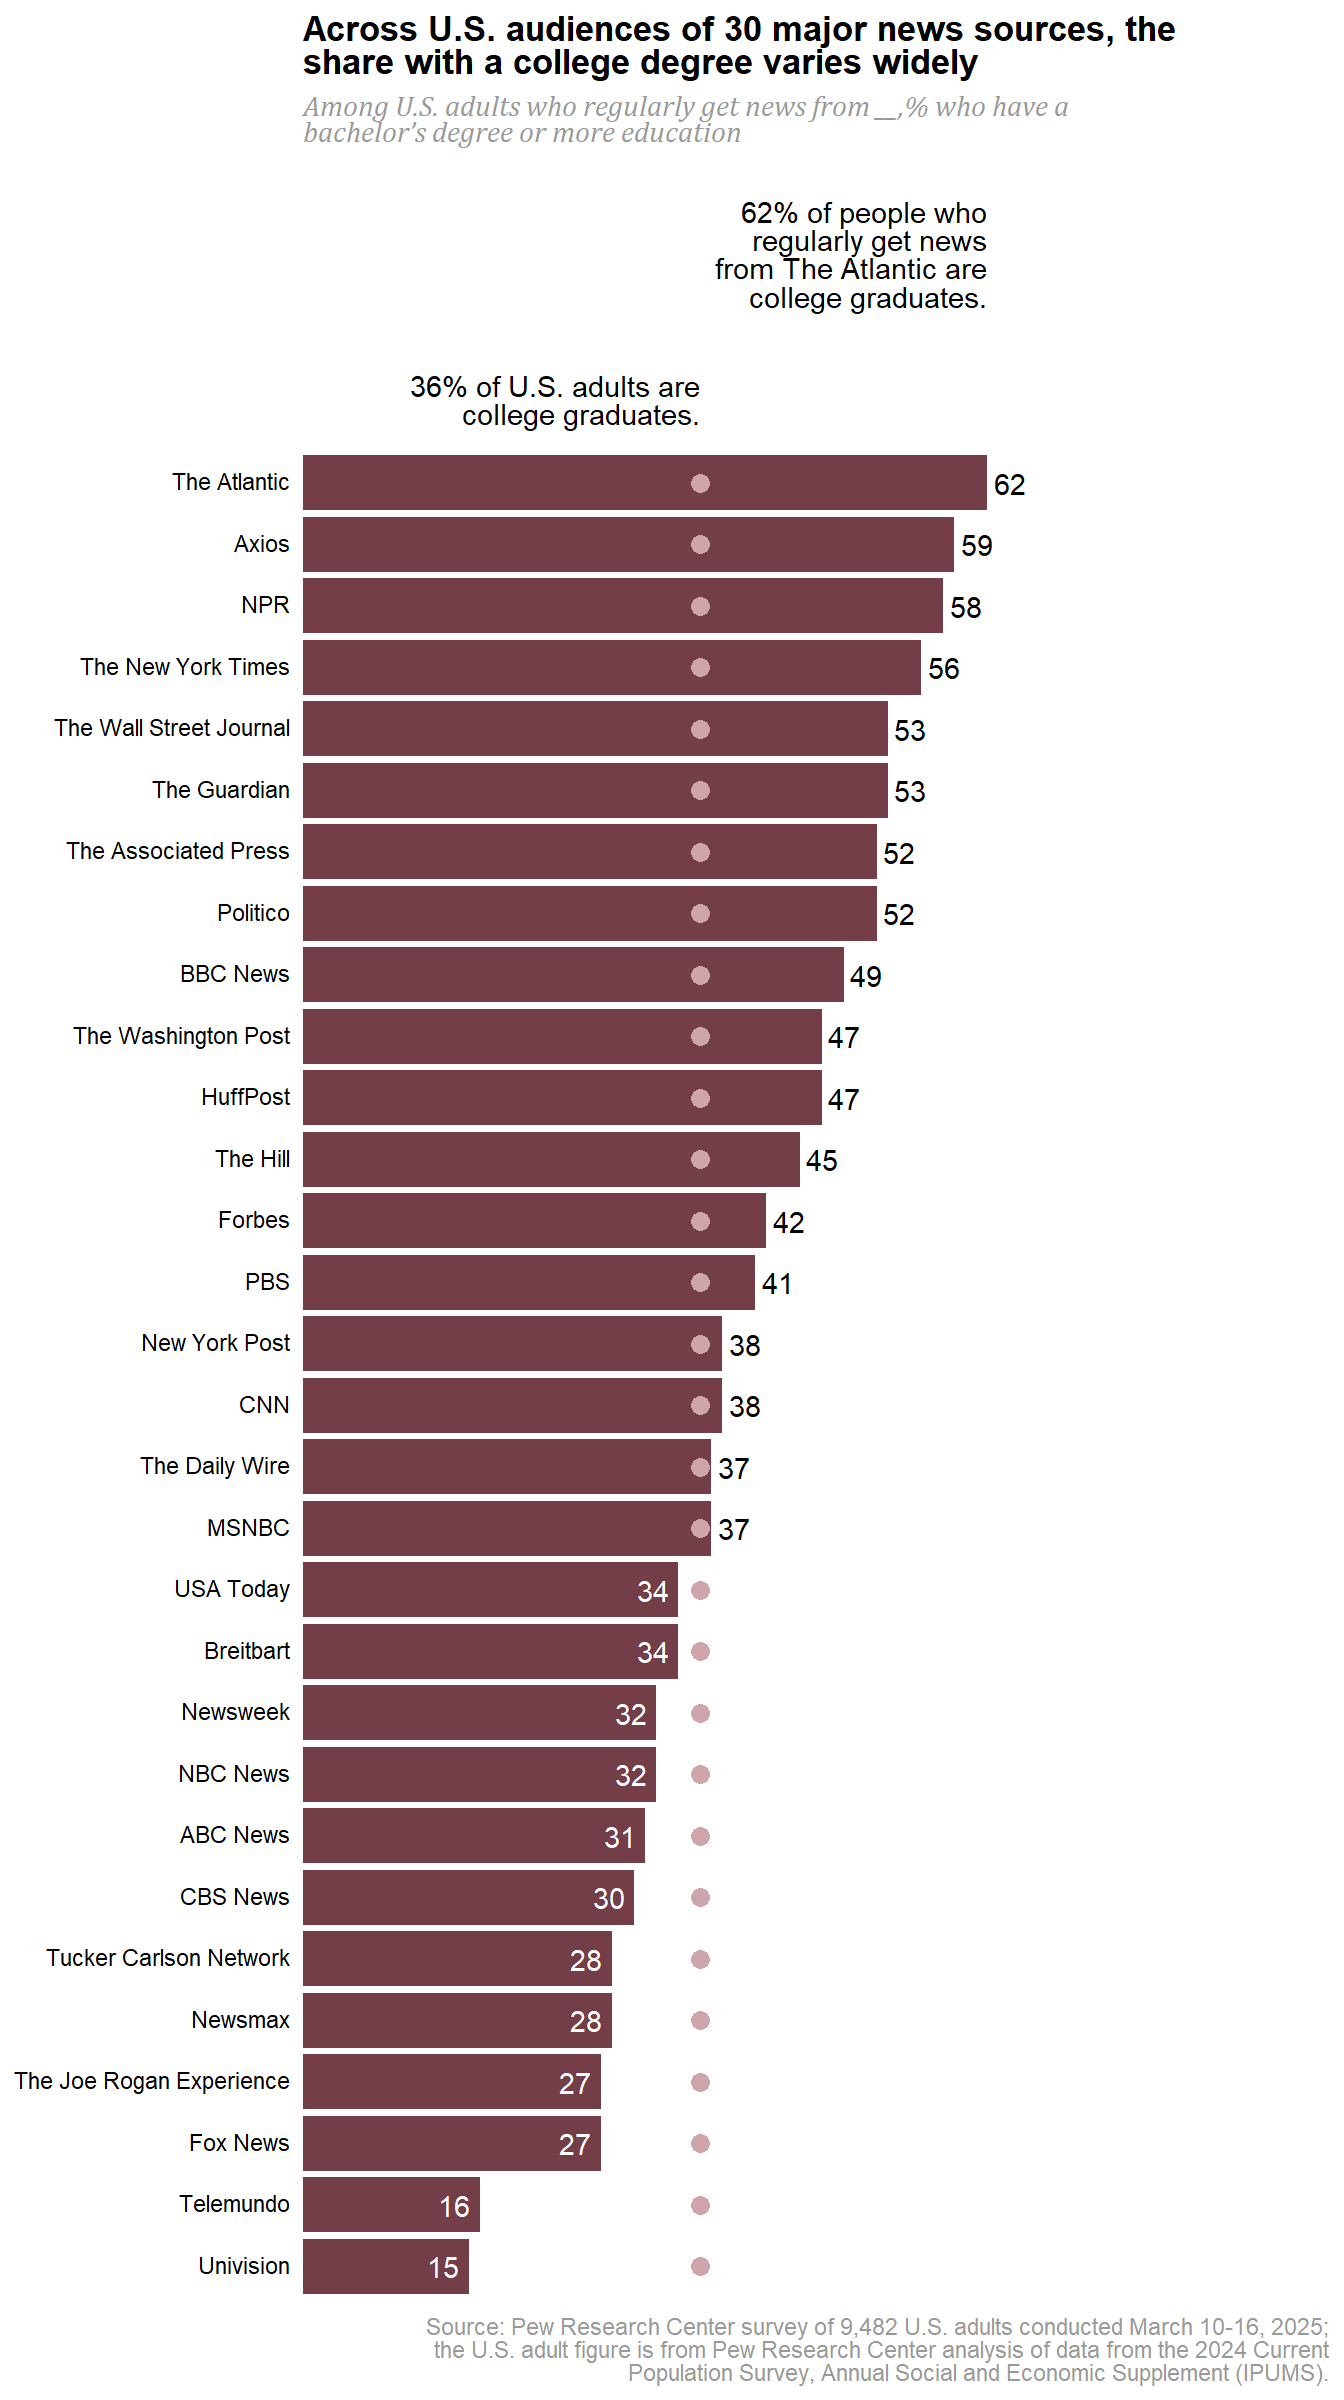
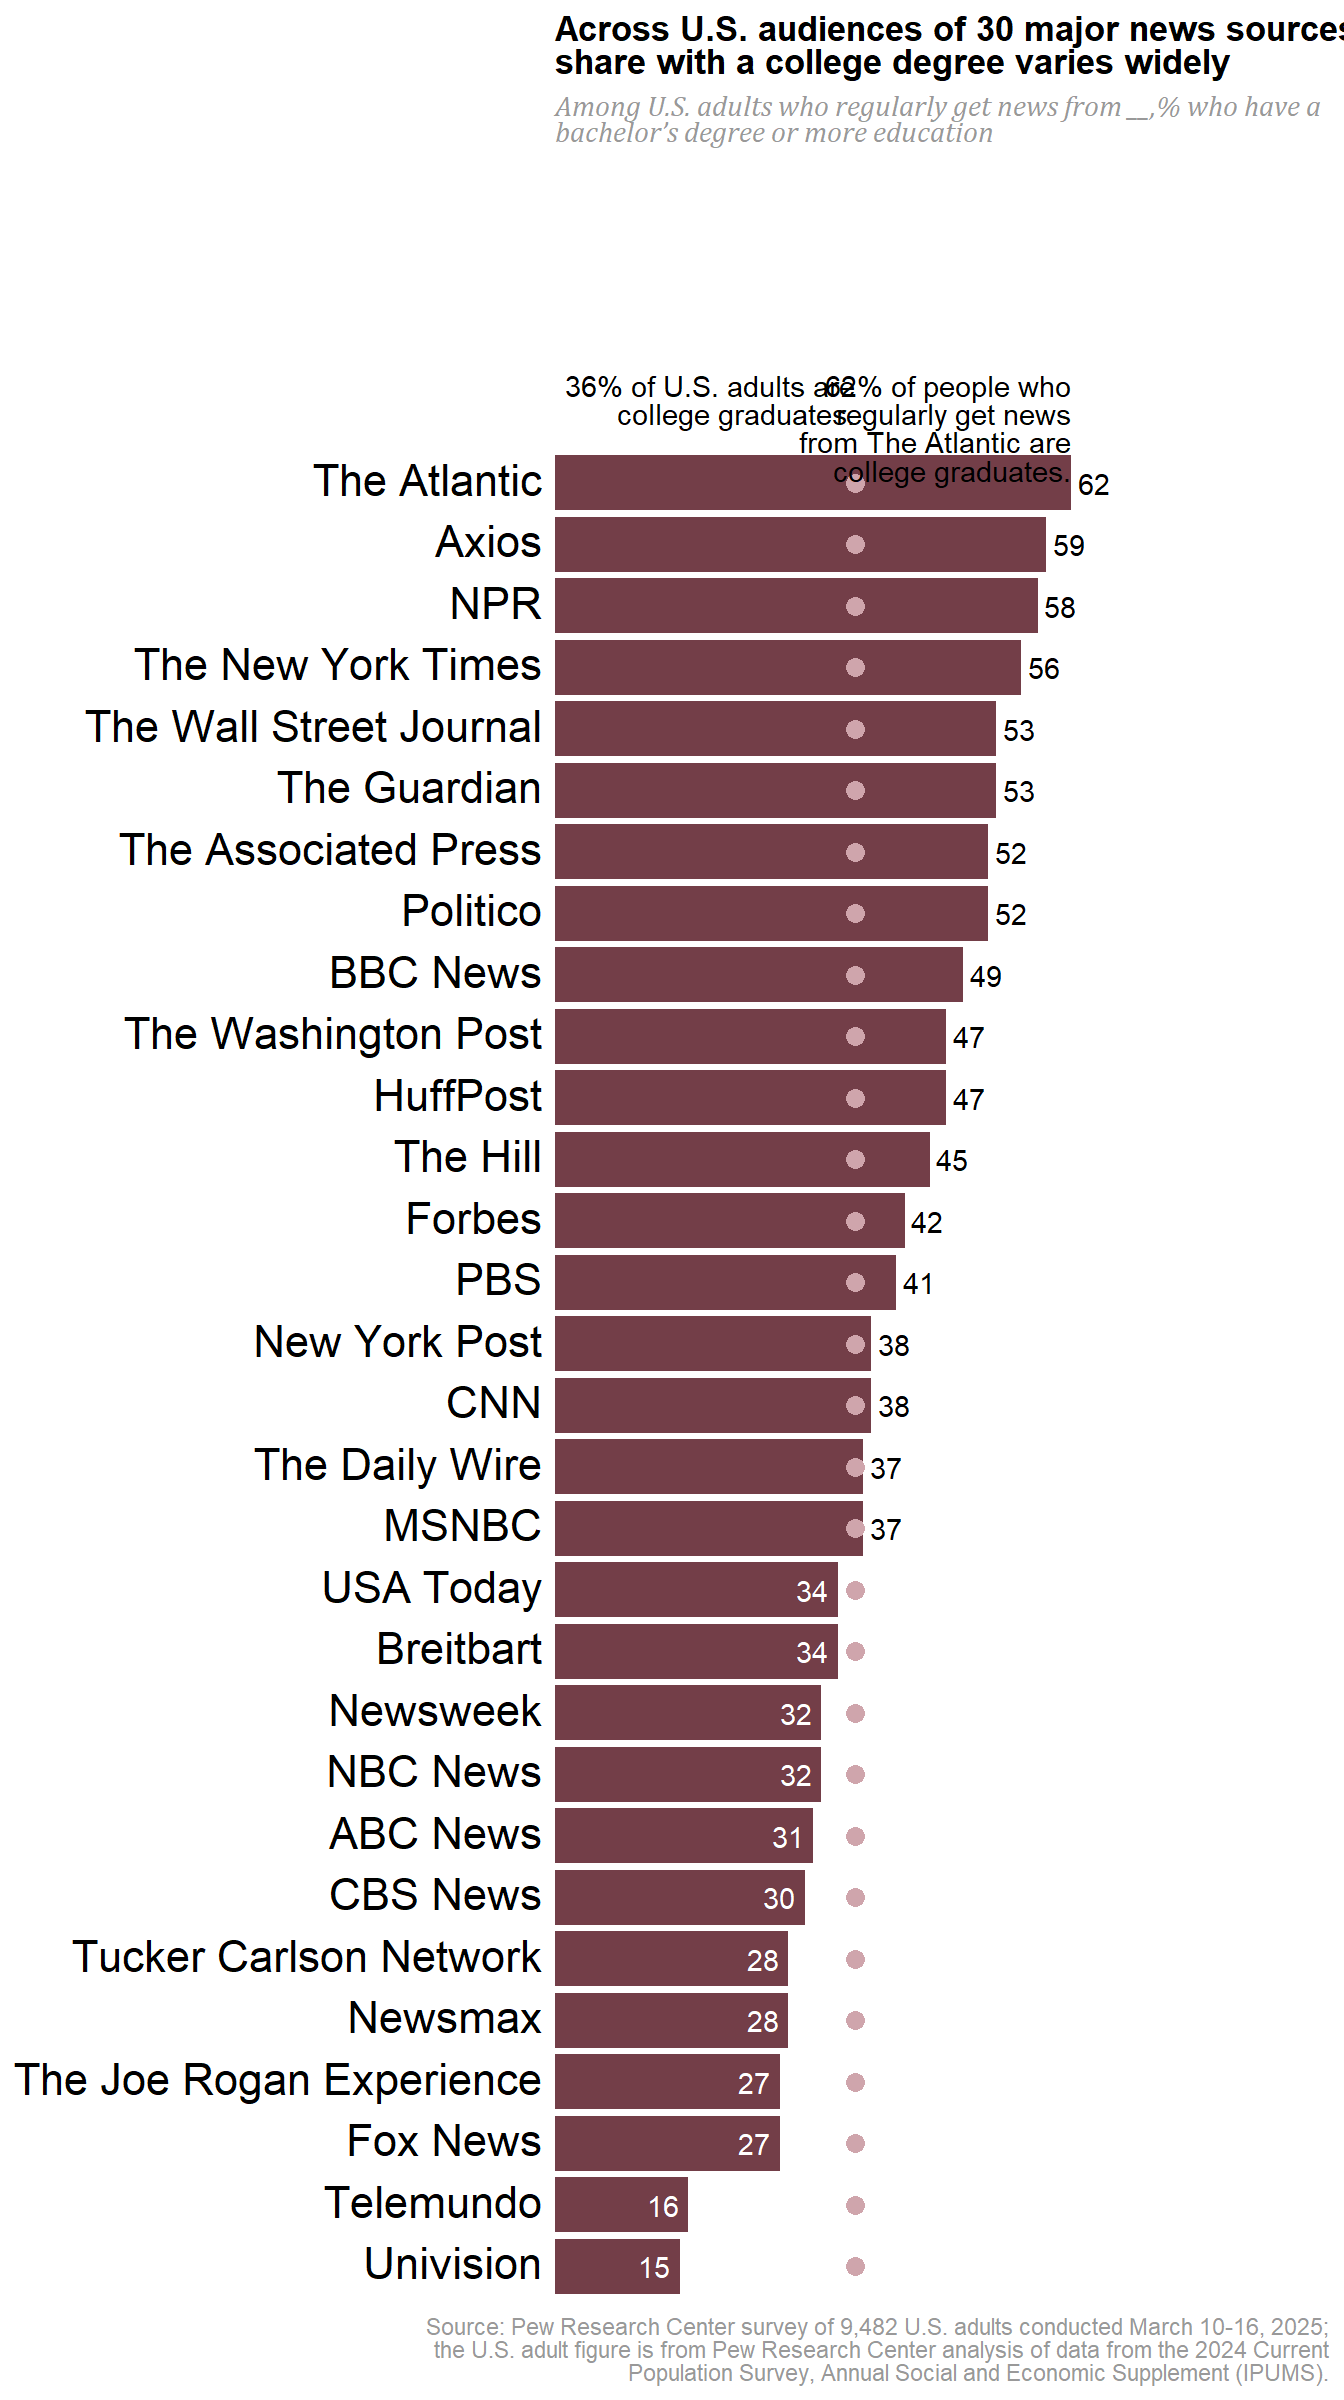
edits

diff --git a/docs/demos/PewMediaStudy.html b/docs/demos/PewMediaStudy.html
@@ -550,7 +550,7 @@ $ high_school_or_less &lt;dbl&gt; 14, 19, 14, 19, 18, 21, 20, 20, 23, 22, 25, 29
 <span id="cb22-27"><a href="#cb22-27" aria-hidden="true" tabindex="-1"></a>  ) <span class="sc">+</span></span>
 <span id="cb22-28"><a href="#cb22-28" aria-hidden="true" tabindex="-1"></a>  <span class="fu">annotate</span>(</span>
 <span id="cb22-29"><a href="#cb22-29" aria-hidden="true" tabindex="-1"></a>    <span class="st">"text"</span>,</span>
-<span id="cb22-30"><a href="#cb22-30" aria-hidden="true" tabindex="-1"></a>    <span class="at">y =</span> <span class="fu">nrow</span>(df) <span class="sc">+</span> <span class="fl">4.6</span>,</span>
+<span id="cb22-30"><a href="#cb22-30" aria-hidden="true" tabindex="-1"></a>    <span class="at">y =</span> <span class="fu">nrow</span>(df) <span class="sc">+</span> <span class="fl">1.77</span>,</span>
 <span id="cb22-31"><a href="#cb22-31" aria-hidden="true" tabindex="-1"></a>    <span class="at">x =</span> <span class="dv">62</span>,</span>
 <span id="cb22-32"><a href="#cb22-32" aria-hidden="true" tabindex="-1"></a>    <span class="at">label =</span> <span class="st">"62% of people who</span><span class="sc">\n</span><span class="st">regularly get news</span><span class="sc">\n</span><span class="st">from The Atlantic are</span><span class="sc">\n</span><span class="st">college graduates."</span>,</span>
 <span id="cb22-33"><a href="#cb22-33" aria-hidden="true" tabindex="-1"></a>    <span class="at">lineheight =</span> .<span class="dv">8</span>,</span>
@@ -568,15 +568,16 @@ $ high_school_or_less &lt;dbl&gt; 14, 19, 14, 19, 18, 21, 20, 20, 23, 22, 25, 29
 <span id="cb22-45"><a href="#cb22-45" aria-hidden="true" tabindex="-1"></a>    <span class="at">axis.title =</span> <span class="fu">element_blank</span>(),</span>
 <span id="cb22-46"><a href="#cb22-46" aria-hidden="true" tabindex="-1"></a>    <span class="at">axis.text.x =</span> <span class="fu">element_blank</span>(),</span>
 <span id="cb22-47"><a href="#cb22-47" aria-hidden="true" tabindex="-1"></a>    <span class="at">axis.text =</span> <span class="fu">element_markdown</span>(<span class="at">color =</span> <span class="st">"black"</span>,</span>
-<span id="cb22-48"><a href="#cb22-48" aria-hidden="true" tabindex="-1"></a>                             <span class="at">family =</span> <span class="st">"Arial"</span>),</span>
-<span id="cb22-49"><a href="#cb22-49" aria-hidden="true" tabindex="-1"></a>    <span class="at">plot.title =</span> <span class="fu">element_markdown</span>(<span class="at">hjust =</span> <span class="dv">0</span>, <span class="at">face =</span> <span class="st">"bold"</span>),</span>
-<span id="cb22-50"><a href="#cb22-50" aria-hidden="true" tabindex="-1"></a>    <span class="at">plot.subtitle =</span> <span class="fu">element_markdown</span>(<span class="at">hjust =</span> <span class="dv">0</span>, </span>
-<span id="cb22-51"><a href="#cb22-51" aria-hidden="true" tabindex="-1"></a>                                 <span class="at">size =</span> <span class="dv">11</span>, </span>
-<span id="cb22-52"><a href="#cb22-52" aria-hidden="true" tabindex="-1"></a>                                 <span class="at">color =</span> <span class="st">"grey60"</span>, </span>
-<span id="cb22-53"><a href="#cb22-53" aria-hidden="true" tabindex="-1"></a>                                 <span class="at">face =</span> <span class="st">"italic"</span>, </span>
-<span id="cb22-54"><a href="#cb22-54" aria-hidden="true" tabindex="-1"></a>                                 <span class="at">family =</span> <span class="st">"Cambria"</span>),</span>
-<span id="cb22-55"><a href="#cb22-55" aria-hidden="true" tabindex="-1"></a>    <span class="at">plot.caption =</span> <span class="fu">element_markdown</span>(<span class="at">color =</span> <span class="st">"grey60"</span>,)</span>
-<span id="cb22-56"><a href="#cb22-56" aria-hidden="true" tabindex="-1"></a>  )</span></code><button title="Copy to Clipboard" class="code-copy-button"><i class="bi"></i></button></pre></div>
+<span id="cb22-48"><a href="#cb22-48" aria-hidden="true" tabindex="-1"></a>                                <span class="at">family =</span> <span class="st">"Arial"</span>,</span>
+<span id="cb22-49"><a href="#cb22-49" aria-hidden="true" tabindex="-1"></a>                                <span class="at">size =</span> <span class="fu">rel</span>(<span class="fl">1.5</span>)),</span>
+<span id="cb22-50"><a href="#cb22-50" aria-hidden="true" tabindex="-1"></a>    <span class="at">plot.title =</span> <span class="fu">element_markdown</span>(<span class="at">hjust =</span> <span class="dv">0</span>, <span class="at">face =</span> <span class="st">"bold"</span>),</span>
+<span id="cb22-51"><a href="#cb22-51" aria-hidden="true" tabindex="-1"></a>    <span class="at">plot.subtitle =</span> <span class="fu">element_markdown</span>(<span class="at">hjust =</span> <span class="dv">0</span>, </span>
+<span id="cb22-52"><a href="#cb22-52" aria-hidden="true" tabindex="-1"></a>                                 <span class="at">size =</span> <span class="dv">11</span>, </span>
+<span id="cb22-53"><a href="#cb22-53" aria-hidden="true" tabindex="-1"></a>                                 <span class="at">color =</span> <span class="st">"grey60"</span>, </span>
+<span id="cb22-54"><a href="#cb22-54" aria-hidden="true" tabindex="-1"></a>                                 <span class="at">face =</span> <span class="st">"italic"</span>, </span>
+<span id="cb22-55"><a href="#cb22-55" aria-hidden="true" tabindex="-1"></a>                                 <span class="at">family =</span> <span class="st">"Cambria"</span>),</span>
+<span id="cb22-56"><a href="#cb22-56" aria-hidden="true" tabindex="-1"></a>    <span class="at">plot.caption =</span> <span class="fu">element_markdown</span>(<span class="at">color =</span> <span class="st">"grey60"</span>,)</span>
+<span id="cb22-57"><a href="#cb22-57" aria-hidden="true" tabindex="-1"></a>  )</span></code><button title="Copy to Clipboard" class="code-copy-button"><i class="bi"></i></button></pre></div>
 </details>
 <div class="cell-output-display">
 <p><img src="PewMediaStudy_files/figure-html/unnamed-chunk-4-1.png" class="img-fluid" width="672"></p>
@@ -1125,7 +1126,7 @@ window.document.addEventListener("DOMContentLoaded", function (event) {
 <span id="cb23-257"><a href="#cb23-257" aria-hidden="true" tabindex="-1"></a>  ) <span class="sc">+</span></span>
 <span id="cb23-258"><a href="#cb23-258" aria-hidden="true" tabindex="-1"></a>  <span class="fu">annotate</span>(</span>
 <span id="cb23-259"><a href="#cb23-259" aria-hidden="true" tabindex="-1"></a>    <span class="st">"text"</span>,</span>
-<span id="cb23-260"><a href="#cb23-260" aria-hidden="true" tabindex="-1"></a>    <span class="at">y =</span> <span class="fu">nrow</span>(df) <span class="sc">+</span> <span class="fl">4.6</span>,</span>
+<span id="cb23-260"><a href="#cb23-260" aria-hidden="true" tabindex="-1"></a>    <span class="at">y =</span> <span class="fu">nrow</span>(df) <span class="sc">+</span> <span class="fl">1.77</span>,</span>
 <span id="cb23-261"><a href="#cb23-261" aria-hidden="true" tabindex="-1"></a>    <span class="at">x =</span> <span class="dv">62</span>,</span>
 <span id="cb23-262"><a href="#cb23-262" aria-hidden="true" tabindex="-1"></a>    <span class="at">label =</span> <span class="st">"62% of people who</span><span class="sc">\n</span><span class="st">regularly get news</span><span class="sc">\n</span><span class="st">from The Atlantic are</span><span class="sc">\n</span><span class="st">college graduates."</span>,</span>
 <span id="cb23-263"><a href="#cb23-263" aria-hidden="true" tabindex="-1"></a>    <span class="at">lineheight =</span> .<span class="dv">8</span>,</span>
@@ -1143,19 +1144,20 @@ window.document.addEventListener("DOMContentLoaded", function (event) {
 <span id="cb23-275"><a href="#cb23-275" aria-hidden="true" tabindex="-1"></a>    <span class="at">axis.title =</span> <span class="fu">element_blank</span>(),</span>
 <span id="cb23-276"><a href="#cb23-276" aria-hidden="true" tabindex="-1"></a>    <span class="at">axis.text.x =</span> <span class="fu">element_blank</span>(),</span>
 <span id="cb23-277"><a href="#cb23-277" aria-hidden="true" tabindex="-1"></a>    <span class="at">axis.text =</span> <span class="fu">element_markdown</span>(<span class="at">color =</span> <span class="st">"black"</span>,</span>
-<span id="cb23-278"><a href="#cb23-278" aria-hidden="true" tabindex="-1"></a>                             <span class="at">family =</span> <span class="st">"Arial"</span>),</span>
-<span id="cb23-279"><a href="#cb23-279" aria-hidden="true" tabindex="-1"></a>    <span class="at">plot.title =</span> <span class="fu">element_markdown</span>(<span class="at">hjust =</span> <span class="dv">0</span>, <span class="at">face =</span> <span class="st">"bold"</span>),</span>
-<span id="cb23-280"><a href="#cb23-280" aria-hidden="true" tabindex="-1"></a>    <span class="at">plot.subtitle =</span> <span class="fu">element_markdown</span>(<span class="at">hjust =</span> <span class="dv">0</span>, </span>
-<span id="cb23-281"><a href="#cb23-281" aria-hidden="true" tabindex="-1"></a>                                 <span class="at">size =</span> <span class="dv">11</span>, </span>
-<span id="cb23-282"><a href="#cb23-282" aria-hidden="true" tabindex="-1"></a>                                 <span class="at">color =</span> <span class="st">"grey60"</span>, </span>
-<span id="cb23-283"><a href="#cb23-283" aria-hidden="true" tabindex="-1"></a>                                 <span class="at">face =</span> <span class="st">"italic"</span>, </span>
-<span id="cb23-284"><a href="#cb23-284" aria-hidden="true" tabindex="-1"></a>                                 <span class="at">family =</span> <span class="st">"Cambria"</span>),</span>
-<span id="cb23-285"><a href="#cb23-285" aria-hidden="true" tabindex="-1"></a>    <span class="at">plot.caption =</span> <span class="fu">element_markdown</span>(<span class="at">color =</span> <span class="st">"grey60"</span>,)</span>
-<span id="cb23-286"><a href="#cb23-286" aria-hidden="true" tabindex="-1"></a>  )</span>
-<span id="cb23-287"><a href="#cb23-287" aria-hidden="true" tabindex="-1"></a></span>
-<span id="cb23-288"><a href="#cb23-288" aria-hidden="true" tabindex="-1"></a><span class="in">```</span></span>
-<span id="cb23-289"><a href="#cb23-289" aria-hidden="true" tabindex="-1"></a></span>
-<span id="cb23-290"><a href="#cb23-290" aria-hidden="true" tabindex="-1"></a>I'm happy as to how this turned out. The next step is to find the raw survey data Pew collected and use that as the starting point rather than the PDF they provided 👀</span>
+<span id="cb23-278"><a href="#cb23-278" aria-hidden="true" tabindex="-1"></a>                                <span class="at">family =</span> <span class="st">"Arial"</span>,</span>
+<span id="cb23-279"><a href="#cb23-279" aria-hidden="true" tabindex="-1"></a>                                <span class="at">size =</span> <span class="fu">rel</span>(<span class="fl">1.5</span>)),</span>
+<span id="cb23-280"><a href="#cb23-280" aria-hidden="true" tabindex="-1"></a>    <span class="at">plot.title =</span> <span class="fu">element_markdown</span>(<span class="at">hjust =</span> <span class="dv">0</span>, <span class="at">face =</span> <span class="st">"bold"</span>),</span>
+<span id="cb23-281"><a href="#cb23-281" aria-hidden="true" tabindex="-1"></a>    <span class="at">plot.subtitle =</span> <span class="fu">element_markdown</span>(<span class="at">hjust =</span> <span class="dv">0</span>, </span>
+<span id="cb23-282"><a href="#cb23-282" aria-hidden="true" tabindex="-1"></a>                                 <span class="at">size =</span> <span class="dv">11</span>, </span>
+<span id="cb23-283"><a href="#cb23-283" aria-hidden="true" tabindex="-1"></a>                                 <span class="at">color =</span> <span class="st">"grey60"</span>, </span>
+<span id="cb23-284"><a href="#cb23-284" aria-hidden="true" tabindex="-1"></a>                                 <span class="at">face =</span> <span class="st">"italic"</span>, </span>
+<span id="cb23-285"><a href="#cb23-285" aria-hidden="true" tabindex="-1"></a>                                 <span class="at">family =</span> <span class="st">"Cambria"</span>),</span>
+<span id="cb23-286"><a href="#cb23-286" aria-hidden="true" tabindex="-1"></a>    <span class="at">plot.caption =</span> <span class="fu">element_markdown</span>(<span class="at">color =</span> <span class="st">"grey60"</span>,)</span>
+<span id="cb23-287"><a href="#cb23-287" aria-hidden="true" tabindex="-1"></a>  )</span>
+<span id="cb23-288"><a href="#cb23-288" aria-hidden="true" tabindex="-1"></a></span>
+<span id="cb23-289"><a href="#cb23-289" aria-hidden="true" tabindex="-1"></a><span class="in">```</span></span>
+<span id="cb23-290"><a href="#cb23-290" aria-hidden="true" tabindex="-1"></a></span>
+<span id="cb23-291"><a href="#cb23-291" aria-hidden="true" tabindex="-1"></a>I'm happy as to how this turned out. The next step is to find the raw survey data Pew collected and use that as the starting point rather than the PDF they provided 👀</span>
 </code><button title="Copy to Clipboard" class="code-copy-button"><i class="bi"></i></button></pre></div>
 </div></div></div></div></div>
 </div> <!-- /content -->

diff --git a/docs/demos.html b/docs/demos.html
@@ -173,7 +173,7 @@ ul.task-list li input[type="checkbox"] {
 
 <div class="quarto-listing quarto-listing-container-default" id="listing-listing">
 <div class="list quarto-listing-default">
-<div class="quarto-post image-right" data-index="0" data-categories="media,education,survey,meritocracy" data-listing-date-sort="1757649600000" data-listing-file-modified-sort="1757701746821" data-listing-date-modified-sort="NaN" data-listing-reading-time-sort="12">
+<div class="quarto-post image-right" data-index="0" data-categories="media,education,survey,meritocracy" data-listing-date-sort="1757649600000" data-listing-file-modified-sort="1757701961615" data-listing-date-modified-sort="NaN" data-listing-reading-time-sort="12">
 <div class="thumbnail">
 <p><a href="./demos/PewMediaStudy.html"> <img src="./demos/images/pew_original.png" class="thumbnail-image"> </a></p>
 </div>
